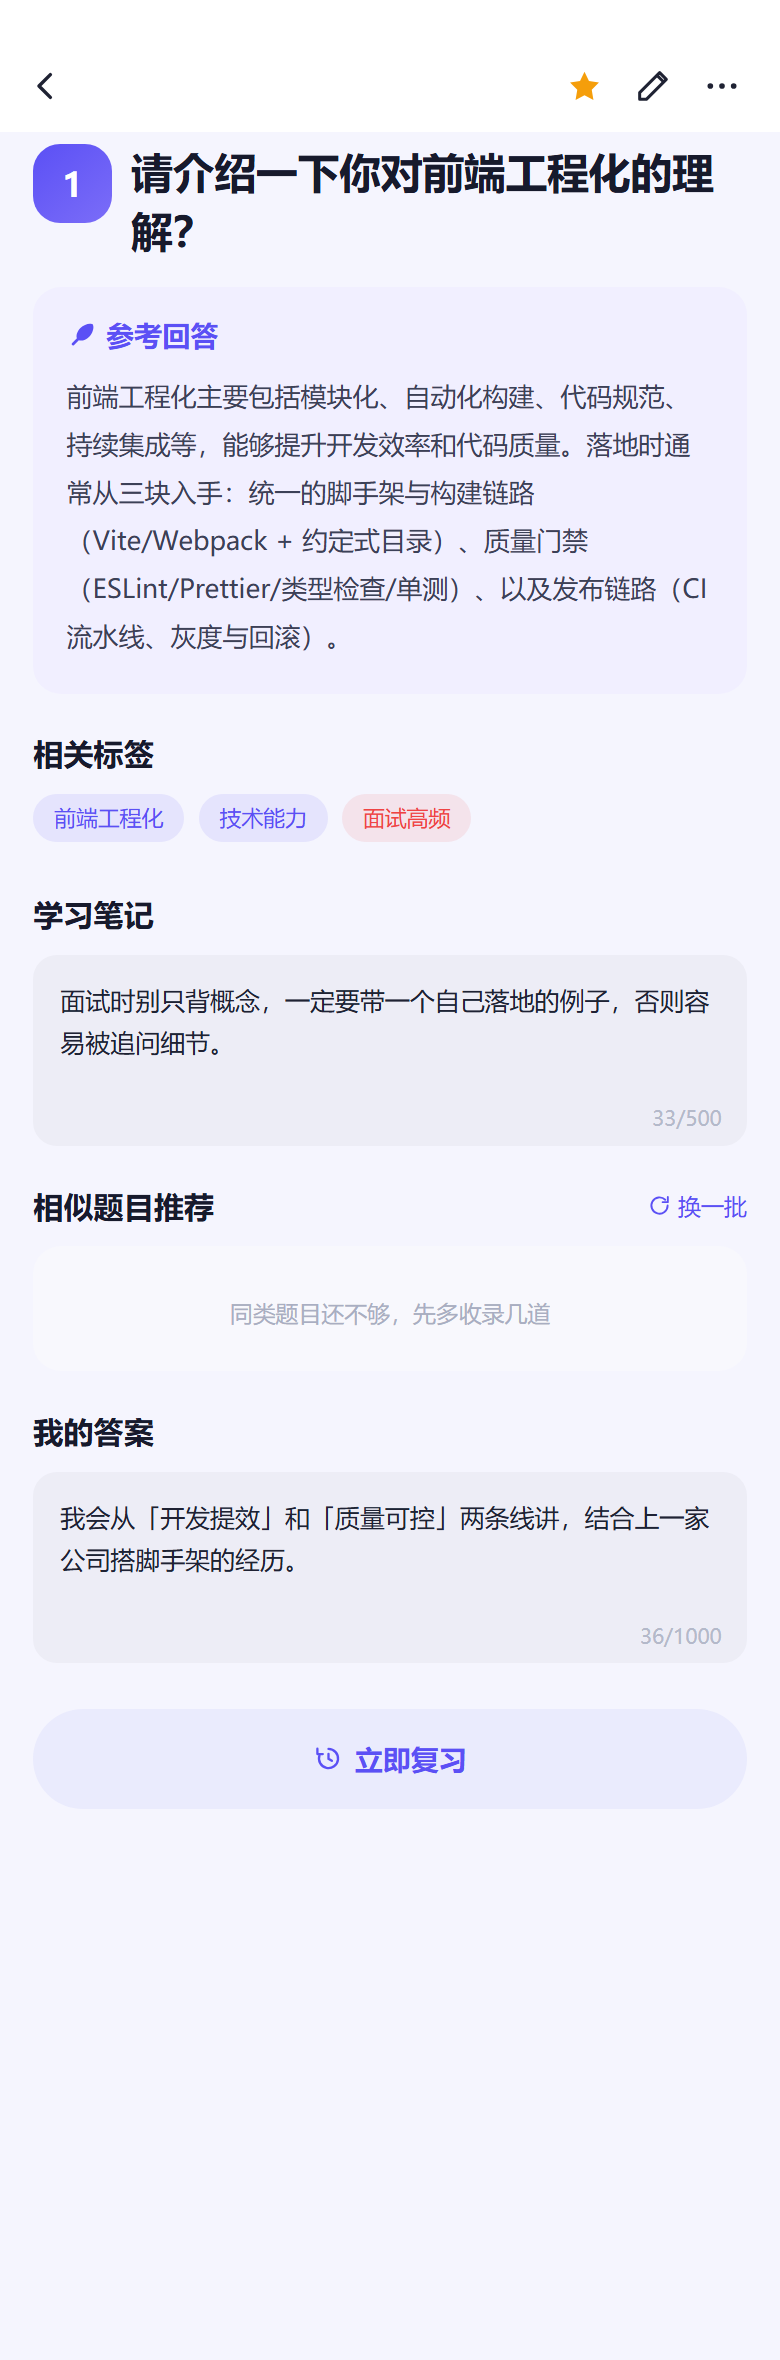
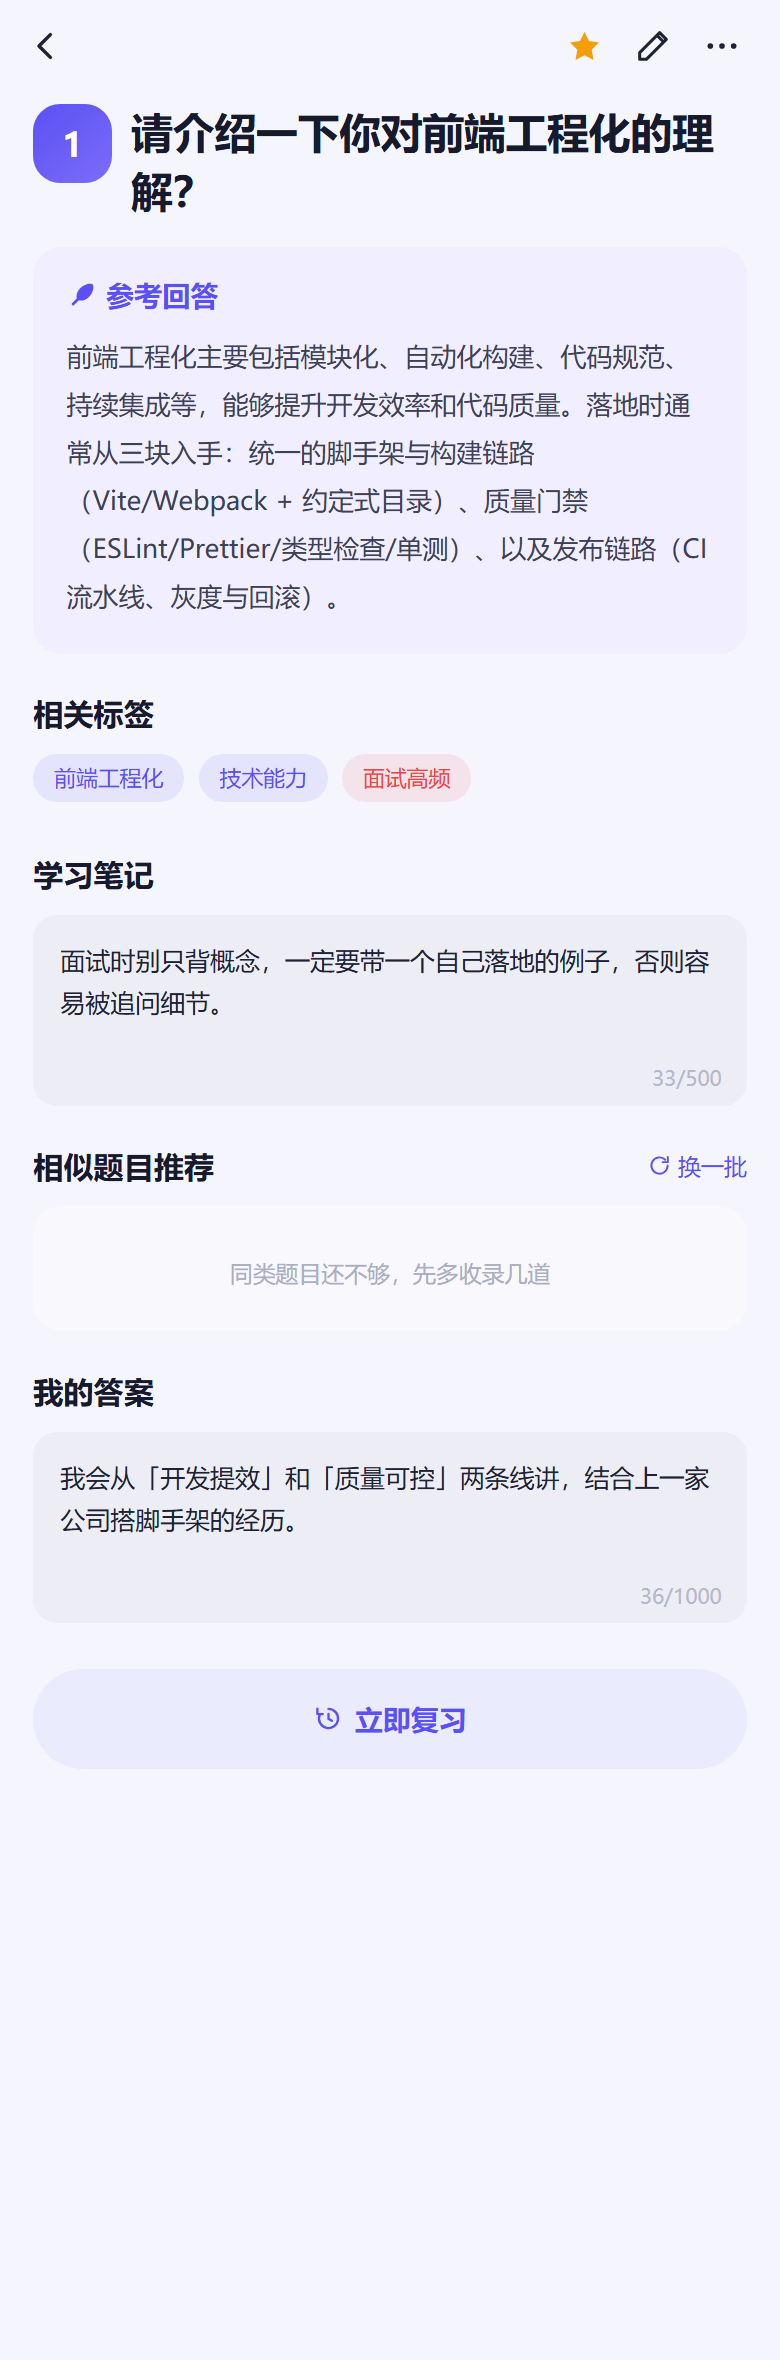
docs(preview): 按当前 UI 重拍 README 全部截图
UI 在今天动了三处（导航栏融入底色、TabBar 压矮、题库分类加 AI 大模型 14 题），
README 里的 13 张单屏图和两张合集还是旧的，会对不上代码。

- 重跑 preview/screens.sh 重拍 13 张单屏（03-library 里能看到
  「AI 大模型 共 14 题 · 已学 3 题 21%」，复习计划里出现了 RAG / A2A 的新题）；
- 两张合集用「固定行高、按原图比例排宽」的网格页在 Chrome 里重新渲染拼出
  （ui-8-screens 1572x1760，ui-extra-pages 1611x870）。
  没用 PIL：pip 在当前环境装不上，而 Chrome 这条路和截图脚本同源，零新依赖；
- README 里「截图拍于加入 AI 题库之前」的过时说明改成当前口径。

diff --git a/README.md b/README.md
@@ -36,8 +36,9 @@
 
 <sub>↑ 设计稿没画、但内部要验收的 5 个二级页（<code>09</code>–<code>13</code>）：编辑题目、复习会话、确认入库、备份恢复、设置。</sub>
 
-> 截图拍于加入 AI 大模型题库之前（当时 18 题、今天还没学，所以复习环是 `0 / 20`）。
-> 现在示例库是 32 题 / 5 个分类；这些数字全部来自真实统计，没有写死（见 [已知限制](#七已知限制如实列出) 第 5 条）。
+> 截图与线上代码同步重拍（2026-11）：示例库 32 题 / 5 个分类（含 AI 大模型 14 题），
+> 首页的 32 题目 / 16% 掌握率 / 复习环 `0 / 20` 全部来自真实统计，没有写死
+> （见 [已知限制](#七已知限制如实列出) 第 5 条）。
 
 <details>
 <summary>13 屏单张（点击展开，可按编号对照上面两张合集）</summary>
